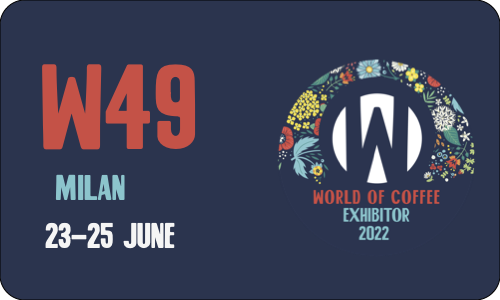
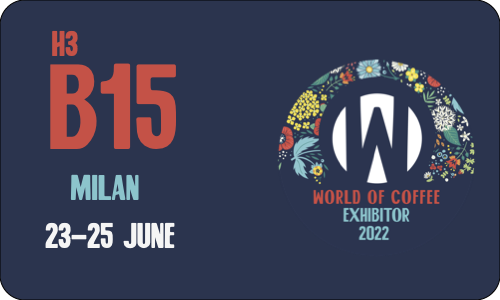
update booth number

Changed region(s): [[0.06, 0.09, 0.39, 0.51], [0.09, 0.57, 0.3, 0.69]]

diff --git a/_posts/2022-06-23-WoC-Milan.md b/_posts/2022-06-23-WoC-Milan.md
@@ -19,10 +19,10 @@ link: https://worldofcoffee.org/
 
 Marko and Paul will present Artisan, the inventory platform [artisan.plus](https://artisan.plus){:target="_blank"}, the tiny [Tonino color meter](https://my-tonino.com/), the [Collino](https://my-tonino.com/shop/en/colino-kit){:target="_blank"} grading sieves, and the [Wile moisture meters](https://my-tonino.com/shop/en/wile-200-coffee) at this years [World of Coffee](https://worldofcoffee.org/){:target="_blank"} fair in Milan.
 
-Meet us in booth W49, close to the Roasters Village.
+Meet us in booth B15 (hall 3), close to the Roasters Village.
 
 
-> [World of Coffee](https://worldofcoffee.org/), booth **W49**   
+> [World of Coffee](https://worldofcoffee.org/), booth **H3-B15**   
 Jun 23 – 25, Milan, Italy
 
 ---
